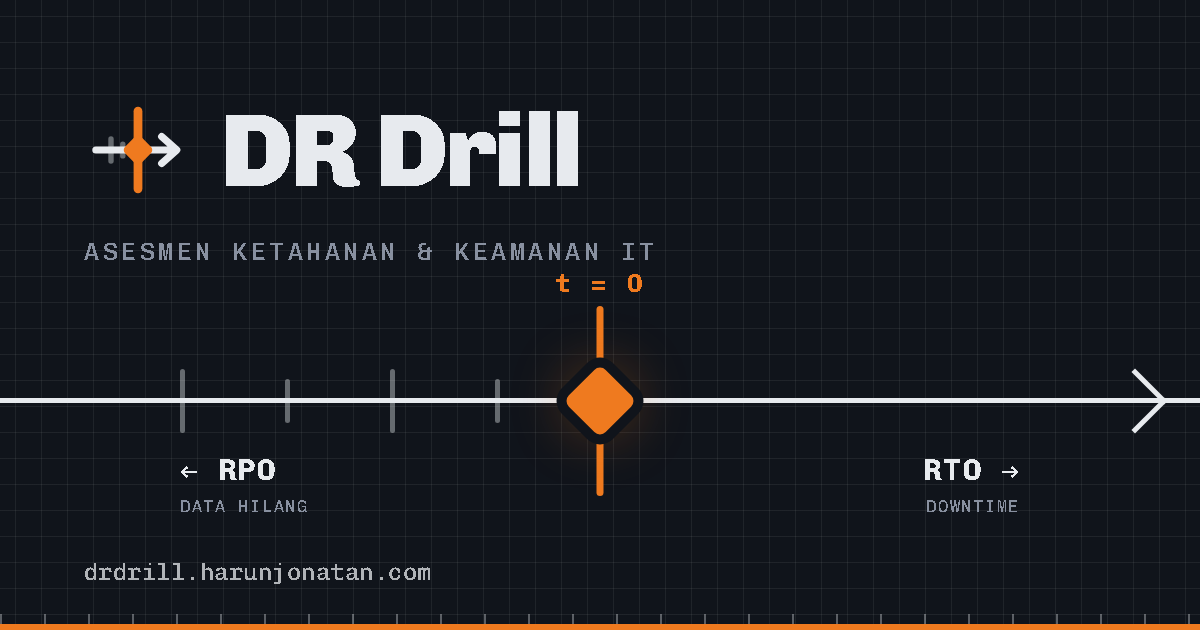
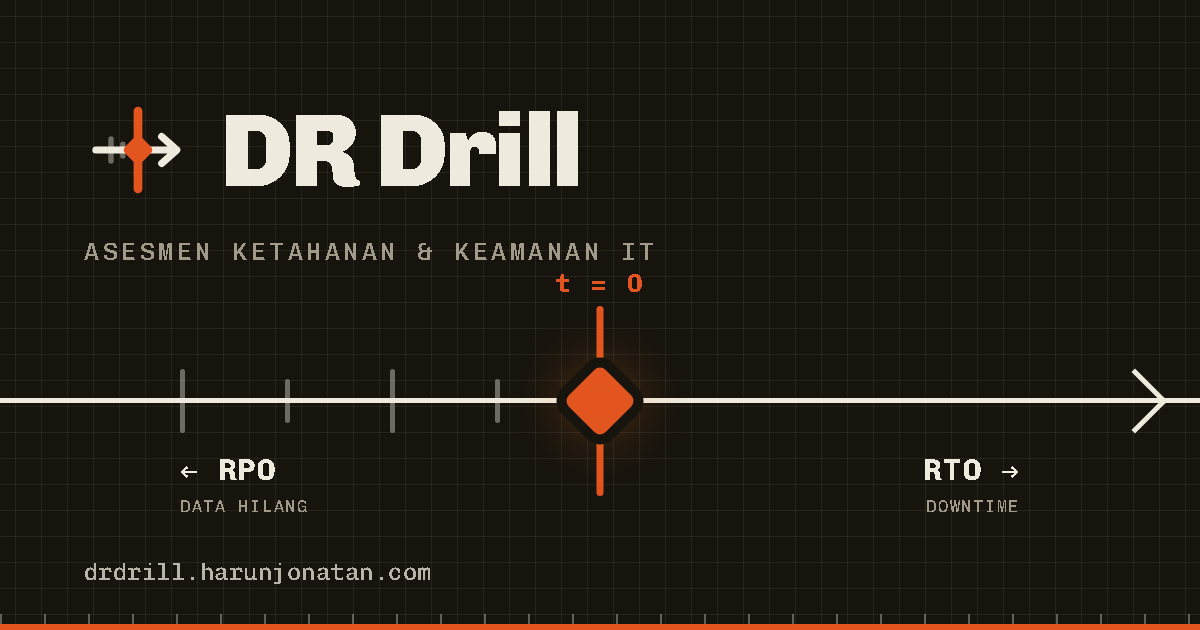
design: drafting-sheet edition — warm paper, page-wide grid, vermilion key
Re-skin toward an engineering-drawing material language (ref: mecka.ai).
Token names unchanged, every value re-tuned:

- The page IS the drawing sheet: warm drafting paper (#efeade) with a
  fine grid running edge to edge; cream panels sit on it like drawing
  views. Ink goes warm near-black (#17140e); the masthead stays the dark
  band, warmed to match.
- One vermilion, two sanctioned jobs: the t=0 incident marker (#e2551f)
  and the primary action key (#c44510 — darker so white text holds
  ≥4.5:1). Everything else stays ink switchgear.
- Status colors re-tuned warm and AA-checked on cream: ok #177340,
  warn #996607, crit #b52d1f (clearly red vs the orange event).
- Carried through the favicon, the PDF brand constants, and the OG card.

Lighthouse: accessibility 100, zero contrast findings.

diff --git a/app/globals.css b/app/globals.css
@@ -1,48 +1,48 @@
 @import "tailwindcss";
 
-/* ── DR Drill — "Incident Timeline" design system ──────────────────────────
-   A recovery instrument, not a dashboard. Cool control-surface grey, PURE
-   white report panels on HARD hairline rules (depth from crisp edges, not
-   soft elevation), near-black ink, tight radius. TWO accents with distinct
-   jobs: steel-azure signal for structure + interaction (calm authority), and
-   a single incident amber reserved for the t=0 marker and nothing decorative.
-   Status is semantic and dark-saturated so it stays legible on white:
-   recovered = green, caution = amber-brown, exposure = red. The palette sits
-   at "caution" on purpose — you're not dead, you're exposed. Chivo carries the
-   engineered display voice; Chivo Mono every number / time / status readout.
+/* ── DR Drill — "Incident Timeline" design system, drafting-sheet edition ──
+   An engineering drawing of your recovery posture, not a dashboard. Warm
+   drafting paper carrying a fine drawing grid across the WHOLE page (the
+   signature — panels sit on the sheet like drawing views), warm near-black
+   ink, cream panels on HARD hairline rules, tight radius. TWO accents with
+   distinct jobs: warm ink for structure + interaction (an instrument's
+   switchgear), and one vermilion for the incident — the t=0 marker and the
+   primary action key — never decoration. Status is semantic and dark so it
+   stays legible on cream: recovered = green, caution = ochre, exposure = red
+   (kept clearly red vs the orange event). Chivo carries the engineered
+   display voice; Chivo Mono every number / time / status readout.
    Token NAMES are stable across components; only values changed. */
 @theme {
-  --color-ink: #e7eaee; /* page — cool control-surface grey */
-  --color-panel: #ffffff; /* report card / surface */
-  --color-well: #eef0f3; /* inset well, inputs, tracks */
-  --color-line: #c6ccd4; /* hairline — dark enough to read as a hard edge */
-  --color-line-soft: #dfe3e8; /* faint inner divider */
+  --color-ink: #efeade; /* page — warm drafting paper */
+  --color-panel: #fbf9f2; /* report card / surface — cream, not white */
+  --color-well: #f0ebdd; /* inset well, inputs, tracks */
+  --color-line: #cdc5b0; /* hairline — dark enough to read as a hard edge */
+  --color-line-soft: #e0d9c6; /* faint inner divider */
 
-  --color-text: #10141b; /* near-black cool ink — high contrast */
-  --color-muted: #566070; /* dark grey, not washed */
-  --color-faint: #626c7e; /* labels, captions — ≥4.5:1 (WCAG AA) down to the inset well */
+  --color-text: #17140e; /* warm near-black drawing ink */
+  --color-muted: #5d5646; /* dark warm grey, not washed */
+  --color-faint: #6b6353; /* labels, captions — ≥4.5:1 (WCAG AA) down to the inset well */
 
-  /* structure + interaction: INK. Actions, active states, and controls are
-     near-black — an instrument's switchgear, not a SaaS blue. Colour is
-     reserved for meaning (amber = incident, semantic status = outcome). */
-  --color-signal: #141a24;
-  --color-signal-ink: #10141b; /* deeper accent — text ON the soft tint */
-  --color-signal-soft: rgba(20, 26, 36, 0.07);
+  /* structure + interaction: INK. Selection and controls are warm near-black.
+     Colour is reserved for meaning (vermilion = incident/action, status = outcome). */
+  --color-signal: #1c180f;
+  --color-signal-ink: #17140e; /* deeper accent — text ON the soft tint */
+  --color-signal-soft: rgba(28, 24, 15, 0.07);
 
-  /* the incident: amber — t=0 marker + the one brand pop, never decoration */
-  --color-event: #ef7a1f;
-  --color-event-soft: rgba(239, 122, 31, 0.14);
+  /* the incident: vermilion — t=0 marker + the primary key, never decoration */
+  --color-event: #e2551f;
+  --color-event-soft: rgba(226, 85, 31, 0.14);
 
   /* data-loss window on the RPO (past) side of the timeline */
-  --color-slate: #8894a6;
+  --color-slate: #9c9280;
 
-  /* semantic status — dark and saturated, legible on white */
-  --color-ok: #158a52;
-  --color-ok-soft: rgba(21, 138, 82, 0.1);
-  --color-warn: #c07d18;
-  --color-warn-soft: rgba(192, 125, 24, 0.12);
-  --color-crit: #cf3b2c;
-  --color-crit-soft: rgba(207, 59, 43, 0.1);
+  /* semantic status — dark and saturated, legible on cream */
+  --color-ok: #177340;
+  --color-ok-soft: rgba(23, 115, 64, 0.1);
+  --color-warn: #996607;
+  --color-warn-soft: rgba(153, 102, 7, 0.12);
+  --color-crit: #b52d1f;
+  --color-crit-soft: rgba(181, 45, 31, 0.1);
 
   --font-sans: var(--font-sans), ui-sans-serif, system-ui, sans-serif;
   --font-mono: var(--font-mono), ui-monospace, "SF Mono", monospace;
@@ -53,8 +53,14 @@
   color-scheme: light;
 }
 
+/* The page IS the drawing sheet: a fine drafting grid runs edge to edge and
+   panels sit on it like drawing views. */
 body {
   background-color: var(--color-ink);
+  background-image:
+    linear-gradient(to right, rgba(139, 113, 78, 0.1) 1px, transparent 1px),
+    linear-gradient(to bottom, rgba(139, 113, 78, 0.1) 1px, transparent 1px);
+  background-size: 26px 26px;
   color: var(--color-text);
   font-family: var(--font-sans);
   font-size: 15px;
@@ -73,7 +79,7 @@ h3 {
 }
 
 ::selection {
-  background: rgba(239, 122, 31, 0.22);
+  background: rgba(226, 85, 31, 0.22);
 }
 
 *:focus-visible {
@@ -92,18 +98,18 @@ input[type="checkbox"] {
 /* Faint blueprint grid for header/footer depth — technical, precise, no photos. */
 .grid-texture {
   background-image:
-    linear-gradient(to right, rgba(11, 14, 20, 0.1) 1px, transparent 1px),
-    linear-gradient(to bottom, rgba(11, 14, 20, 0.1) 1px, transparent 1px);
+    linear-gradient(to right, rgba(23, 20, 14, 0.1) 1px, transparent 1px),
+    linear-gradient(to bottom, rgba(23, 20, 14, 0.1) 1px, transparent 1px);
   background-size: 22px 22px;
   background-position: center;
 }
 
-/* Dark command masthead — ink band with a firm light blueprint grid. */
+/* Dark command masthead — warm ink band with a firm light blueprint grid. */
 .masthead {
   background-color: var(--color-text);
   background-image:
-    linear-gradient(to right, rgba(231, 234,238, 0.07) 1px, transparent 1px),
-    linear-gradient(to bottom, rgba(231, 234,238, 0.07) 1px, transparent 1px);
+    linear-gradient(to right, rgba(239, 234, 222, 0.07) 1px, transparent 1px),
+    linear-gradient(to bottom, rgba(239, 234, 222, 0.07) 1px, transparent 1px);
   background-size: 22px 22px;
   background-position: center;
 }
@@ -114,19 +120,19 @@ input[type="checkbox"] {
   height: 7px;
   background-image: repeating-linear-gradient(
     to right,
-    rgba(231, 234, 238, 0.35) 0 1px,
+    rgba(239, 234, 222, 0.35) 0 1px,
     transparent 1px 22px
   );
   background-position: bottom;
   border-bottom: 2px solid var(--color-event);
 }
 
-/* Tinted hero band behind the score readout — a faint signal wash under paper,
-   capped by the panel's hard hairline instead of a soft glow. */
+/* Tinted hero band behind the score readout — a faint vermilion wash under
+   paper, capped by the panel's hard hairline instead of a soft glow. */
 .hero-band {
   background:
-    radial-gradient(120% 120% at 50% -30%, rgba(239, 122, 31, 0.05) 0%, transparent 55%),
-    linear-gradient(180deg, #f0f1f4 0%, var(--color-panel) 100%);
+    radial-gradient(120% 120% at 50% -30%, rgba(226, 85, 31, 0.05) 0%, transparent 55%),
+    linear-gradient(180deg, #f2eee0 0%, var(--color-panel) 100%);
 }
 
 /* ── Component helpers ─────────────────────────────────────────────────────── */
@@ -158,34 +164,36 @@ input[type="checkbox"] {
   .field:focus {
     outline: none;
     border-color: var(--color-signal);
-    box-shadow: 0 0 0 2px rgba(20, 26, 36, 0.18);
+    box-shadow: 0 0 0 2px rgba(28, 24, 15, 0.18);
   }
 
-  /* Primary action — an ink key: raised on a near-black ledge, pressed flat. */
+  /* Primary action — the vermilion key (the one place the incident colour
+     acts): raised on a burnt-orange ledge, pressed flat. #c44510 keeps white
+     text ≥4.5:1 (WCAG AA); the brighter --color-event stays the t=0 marker. */
   .btn-primary {
     display: inline-flex;
     align-items: center;
     justify-content: center;
     gap: 0.4rem;
     min-height: 44px;
-    background: var(--color-signal);
+    background: #c44510;
     color: #ffffff;
     border-radius: 3px;
     font-family: var(--font-display);
     font-weight: 700;
     letter-spacing: 0.01em;
     box-shadow:
-      inset 0 1px 0 rgba(255, 255, 255, 0.18),
-      0 3px 0 #05070a,
-      0 5px 10px -4px rgba(16, 20, 27, 0.4);
+      inset 0 1px 0 rgba(255, 255, 255, 0.22),
+      0 3px 0 #7c2a08,
+      0 5px 10px -4px rgba(124, 42, 8, 0.45);
     transition: filter 0.12s, transform 0.08s, box-shadow 0.08s;
   }
   .btn-primary:hover:not(:disabled) {
-    filter: brightness(1.08);
+    filter: brightness(1.06);
   }
   .btn-primary:active:not(:disabled) {
     transform: translateY(2px);
-    box-shadow: inset 0 1px 0 rgba(255, 255, 255, 0.18), 0 1px 0 #05070a;
+    box-shadow: inset 0 1px 0 rgba(255, 255, 255, 0.22), 0 1px 0 #7c2a08;
   }
   .btn-primary:disabled {
     background: var(--color-well);
@@ -227,7 +235,7 @@ input[type="checkbox"] {
      bottom ledge, pressed down-and-in when selected. State comes from the
      controls' own ARIA (pressed/checked/selected) or a checked input inside. */
   .keycap {
-    box-shadow: 0 2px 0 var(--color-line), 0 3px 6px -2px rgba(16, 20, 27, 0.08);
+    box-shadow: 0 2px 0 var(--color-line), 0 3px 6px -2px rgba(23, 20, 14, 0.08);
     transition: transform 0.08s ease, box-shadow 0.08s ease;
   }
   .keycap:active:not(:disabled),
@@ -236,7 +244,7 @@ input[type="checkbox"] {
   .keycap[aria-selected="true"],
   label.keycap:has(input:checked) {
     transform: translateY(1px);
-    box-shadow: 0 1px 0 var(--color-line), inset 0 1.5px 3px rgba(16, 20, 27, 0.12);
+    box-shadow: 0 1px 0 var(--color-line), inset 0 1.5px 3px rgba(23, 20, 14, 0.12);
   }
 
   /* Squared status tag — a datasheet badge, always labeled, with a hairline edge. */
@@ -252,11 +260,11 @@ input[type="checkbox"] {
     line-height: 1.4;
     white-space: nowrap;
   }
-  .chip-ok { background: var(--color-ok-soft); color: var(--color-ok); border-color: rgba(21, 138, 82, 0.25); }
-  .chip-warn { background: var(--color-warn-soft); color: var(--color-warn); border-color: rgba(192, 125, 24, 0.28); }
-  .chip-crit { background: var(--color-crit-soft); color: var(--color-crit); border-color: rgba(207, 59, 43, 0.26); }
+  .chip-ok { background: var(--color-ok-soft); color: var(--color-ok); border-color: rgba(23, 115, 64, 0.28); }
+  .chip-warn { background: var(--color-warn-soft); color: var(--color-warn); border-color: rgba(153, 102, 7, 0.3); }
+  .chip-crit { background: var(--color-crit-soft); color: var(--color-crit); border-color: rgba(181, 45, 31, 0.28); }
   .chip-neutral { background: var(--color-well); color: var(--color-muted); border-color: var(--color-line); }
-  .chip-accent { background: var(--color-signal-soft); color: var(--color-signal-ink); border-color: rgba(20, 26, 36, 0.25); }
+  .chip-accent { background: var(--color-signal-soft); color: var(--color-signal-ink); border-color: rgba(28, 24, 15, 0.25); }
 
   /* Solid verdict pill, colored inline to the band. */
   .verdict {

diff --git a/lib/pdf.ts b/lib/pdf.ts
@@ -42,12 +42,12 @@ const PH = 297; // A4
 const CW = PW - 2 * M; // content width
 
 // Incident Timeline brand — mirrors the app tokens (globals.css).
-const INK: RGB = [16, 20, 27];
-const AMBER: RGB = [239, 122, 31];
-const LINE: RGB = [198, 204, 212];
-const MUTED: RGB = [86, 96, 112];
-const FAINT: RGB = [136, 144, 160];
-const CRIT: RGB = [207, 59, 43];
+const INK: RGB = [23, 20, 14];
+const AMBER: RGB = [226, 85, 31];
+const LINE: RGB = [205, 197, 176];
+const MUTED: RGB = [93, 86, 70];
+const FAINT: RGB = [107, 99, 83];
+const CRIT: RGB = [181, 45, 31];
 
 /** The timeline mark, in vector: recovery axis with a forward arrow, struck at
  *  t=0 by the amber incident line + diamond (same as components/logo.tsx). */

diff --git a/app/page.tsx b/app/page.tsx
@@ -52,15 +52,15 @@ export default function Home() {
       {/* ── Command masthead: dark ink band on a firm blueprint grid; its
              bottom edge is the timeline axis (the logo's axis, page-wide). ── */}
       <header className="sticky top-0 z-20">
-        <div className="masthead text-[#e7eaee]">
+        <div className="masthead text-[#efeade]">
           <div className="mx-auto flex max-w-3xl items-center justify-between gap-3 px-5 py-3">
             <div className="flex min-w-0 items-center gap-2.5">
-              <Logo className="h-8 w-8 shrink-0 text-[#e7eaee]" />
+              <Logo className="h-8 w-8 shrink-0 text-[#efeade]" />
               <div className="min-w-0 leading-tight">
                 <div className="font-display text-[15px] font-bold tracking-tight">
                   {t.appName}
                 </div>
-                <div className="tag hidden truncate !text-[#8890a0] text-[10px] sm:block">
+                <div className="tag hidden truncate !text-[#a29a88] text-[10px] sm:block">
                   {t.masthead}
                 </div>
               </div>
@@ -72,7 +72,7 @@ export default function Home() {
                   onClick={() => setLang(l)}
                   aria-pressed={lang === l}
                   className={`flex h-11 min-w-[44px] items-center justify-center px-3 transition-colors ${
-                    lang === l ? "bg-[#e7eaee] text-text" : "text-white/55 hover:text-white"
+                    lang === l ? "bg-[#efeade] text-text" : "text-white/55 hover:text-white"
                   }`}
                 >
                   {l.toUpperCase()}

diff --git a/components/report.tsx b/components/report.tsx
@@ -111,7 +111,7 @@ export function Report({
             <div className="hero-band flex items-center gap-3 border-b border-line px-5 py-4 sm:px-6">
               <span
                 aria-hidden
-                className="flex h-9 w-9 shrink-0 items-center justify-center rounded-[3px] bg-signal text-white shadow-[0_6px_16px_-8px_rgba(16,20,27,0.55)]"
+                className="flex h-9 w-9 shrink-0 items-center justify-center rounded-[3px] bg-signal text-white shadow-[0_6px_16px_-8px_rgba(23,20,14,0.55)]"
               >
                 <Siren className="h-[18px] w-[18px]" strokeWidth={2.2} />
               </span>